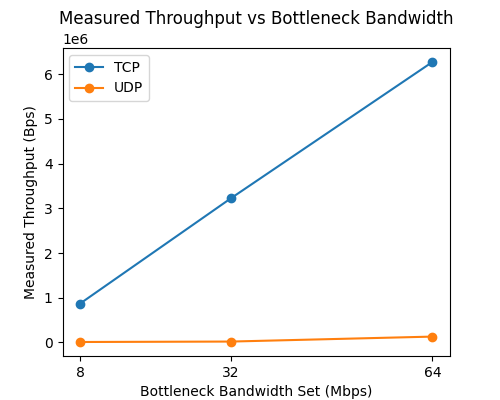
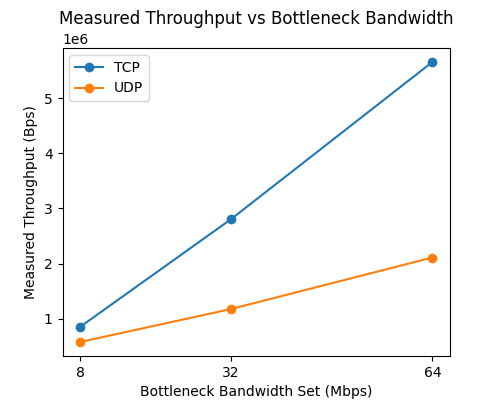
v3, observations.txt needs updating

diff --git a/A3/network_bottleneck.py b/A3/network_bottleneck.py
@@ -132,7 +132,7 @@ def tcp_bytes_sent_recv(tcp_out):
 # the output of the .pexec() funtion calling client.py is a string of everything printed to console
 # need to parse this string to remove \n and space characters
 #returns a list containing packets transmitted and packets lsot
-def udp_packets_sent_lost(udp_out):
+def udp_bytes_transmitted(udp_out):
     udp_out = udp_out.strip()
     udp_sent_recv = udp_out.split()
     return udp_sent_recv
@@ -155,9 +155,9 @@ def run_perf_tests(bw_bottleneck, bw_other):
     h4 = net.get("h4")
 
     # initiliaze a tcp server on the h3 node
-    tcp_server = h3.cmd('sudo python3 server.py -ip 10.0.0.3 -port 5210 &')
+    tcp_server = h3.cmd('sudo python3 server.py -ip 10.0.0.3 -port 5201 &')
     # run the tcp test on the h1 node
-    tcp_test = h1.pexec('sudo python3 client.py -ip 10.0.0.1 -port 5210 -server_ip 10.0.0.3 -test tcp')
+    tcp_test = h1.pexec('sudo python3 client.py -ip 10.0.0.1 -port 5201 -server_ip 10.0.0.3 -test tcp')
 
     # check if an error occured while creating the tcp test
     if tcp_test[2] != 0:
@@ -183,9 +183,9 @@ def run_perf_tests(bw_bottleneck, bw_other):
     
     tcp_file.close()
     # initiliaze a udp server on the h4 node
-    udp_server = h4.cmd('sudo python3 server.py -ip 10.0.0.4 -port 5211 &')
+    udp_server = h4.cmd('sudo python3 server.py -ip 10.0.0.4 -port 5202 &')
     # run the tcp test on the h1 node
-    udp_test = h2.pexec('sudo python3 client.py -ip 10.0.0.2 -port 5211 -server_ip 10.0.0.4 -test udp')
+    udp_test = h2.pexec('sudo python3 client.py -ip 10.0.0.2 -port 5202 -server_ip 10.0.0.4 -test udp')
     
     # check if an error occured while creating the udp test
     if udp_test[2] != 0:
@@ -193,21 +193,20 @@ def run_perf_tests(bw_bottleneck, bw_other):
         return
     
     # parse the output of the udp and return of list containing total packets sent and lost
-    udp_out = udp_packets_sent_lost(udp_test[0])
+    udp_out = udp_bytes_transmitted(udp_test[0])
 
     # calculate the number of bytes based on packets sent and lost
     # assuming each packet = 1470 bytes
-    bytes_sent = (int(udp_out[0]) * 1470)
-    bytes_recv = (int(udp_out[0]) * 1470) - (int(udp_out[1]) * 1470)
+    #bytes_sent = (int(udp_out[0]) * 1470)
+    #bytes_recv = (int(udp_out[0]) * 1470) - (int(udp_out[1]) * 1470)
     
     # configure info as dictionary to dump into json file for the udp tests
     udp_results = {
         "udp_test": "udp",
         "udp_bottleneck_bw": bw_bottleneck, 
         "udp_other_bw": bw_other, 
-        "udp_bytes_sent": bytes_sent,
-        "udp_bytes_received": bytes_recv,
-        "udp_seconds": udp_out[2]
+        "udp_bytes_transmitted": udp_out[0],
+        "udp_seconds": udp_out[1]
         }
     
     # dump test info into udp json files

diff --git a/A3/analyze_perf.py b/A3/analyze_perf.py
@@ -10,6 +10,7 @@ def main():
     udp_throughput = []
 
     # Run network_bottleneck.py for each bandwidth
+
     for each in bottleneck_bandwidths:
         print(f"Running network_bottleneck.py with {each} Mbps...")
         # ensure that the Mininet's network is clear and prevent errrors in creation and configuration of a new network
@@ -66,9 +67,9 @@ def main():
     tcp_32_throughput = int(tcp_test_32.get("tcp_bytes_received"))/int(tcp_test_32.get("tcp_seconds"))
     tcp_64_throughput = int(tcp_test_64.get("tcp_bytes_received"))/int(tcp_test_64.get("tcp_seconds"))
 
-    udp_8_throughput = int(udp_test_8.get("udp_bytes_received"))/int(udp_test_8.get("udp_seconds"))
-    udp_32_throughput = int(udp_test_32.get("udp_bytes_received"))/int(udp_test_32.get("udp_seconds"))
-    udp_64_throughput = int(udp_test_64.get("udp_bytes_received"))/int(udp_test_64.get("udp_seconds"))
+    udp_8_throughput = int(udp_test_8.get("udp_bytes_transmitted"))/int(udp_test_8.get("udp_seconds"))
+    udp_32_throughput = int(udp_test_32.get("udp_bytes_transmitted"))/int(udp_test_32.get("udp_seconds"))
+    udp_64_throughput = int(udp_test_64.get("udp_bytes_transmitted"))/int(udp_test_64.get("udp_seconds"))
     
     # add the tcp throughput values for all 3 tests to a dictionary
     tcp_throughput.append(tcp_8_throughput)

diff --git a/A3/client.py b/A3/client.py
@@ -23,7 +23,7 @@ def run_client(client_args):
             print(client_result.sent_bytes, client_result.received_bytes, client_result.duration)
         # if the test type is udp, get the sent_bytes and received bytes from the TestResult object
         elif client_args["test"] == "udp": 
-            print(client_result.packets, client_result.lost_packets, client_result.duration)
+            print(client_result.bytes, client_result.duration)
         # if the test type is not TCP or UDP, throw an exception and exit the client
         else:
             raise Exception(f"Invalid test type used. Exiting program...")
